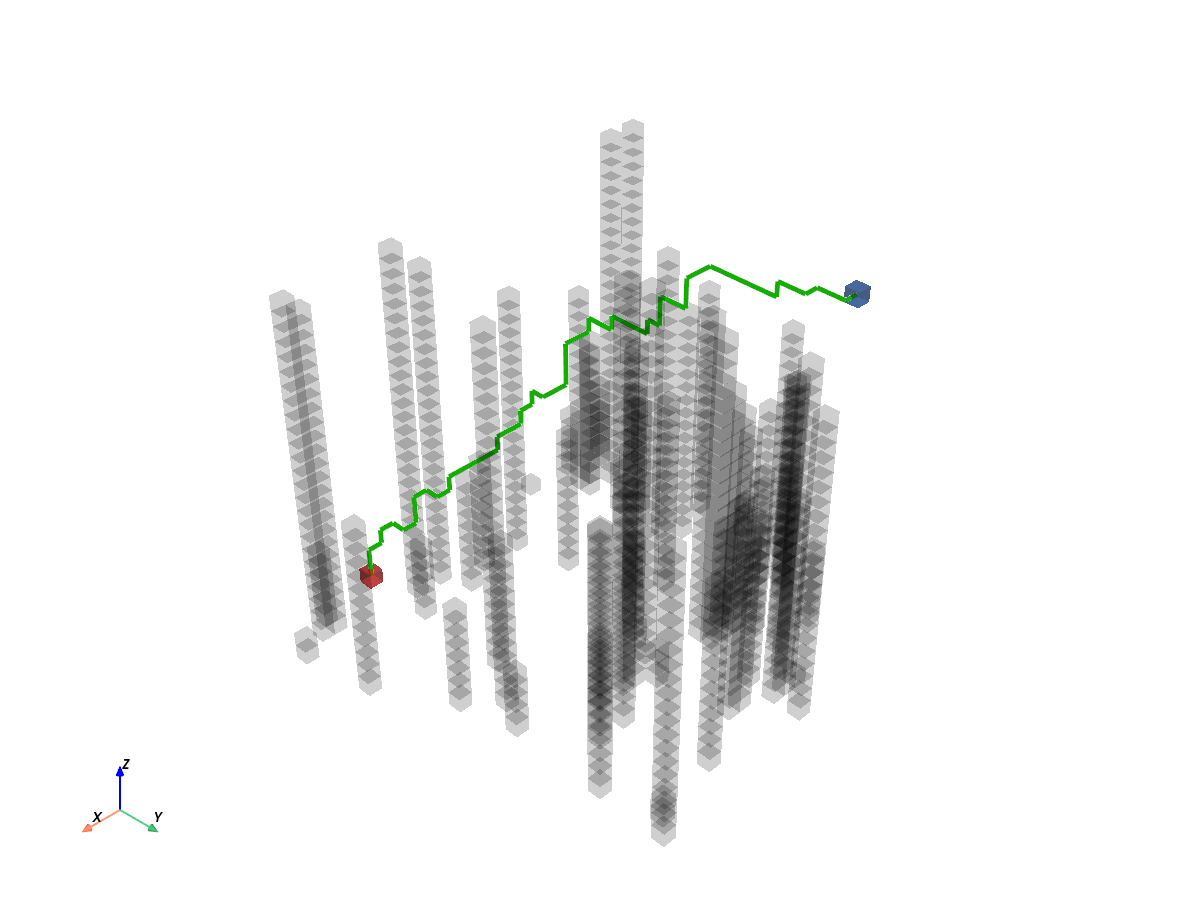
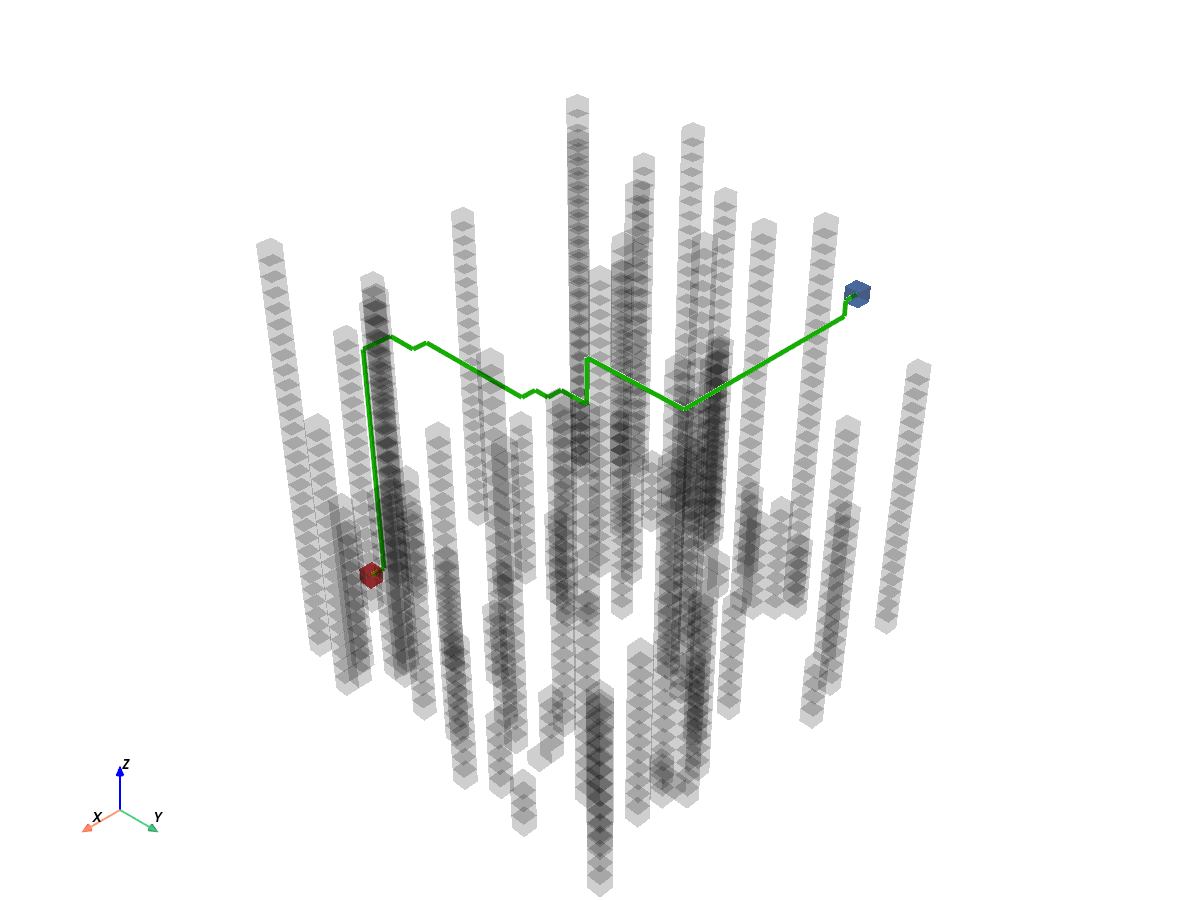
Add A*, theta*, & voronoi roadmap scripts

Changed region(s): [[0.2158, 0.0933, 0.8017, 0.9956]]

diff --git a/scripts/roadmaps/run_voronoi.py b/scripts/roadmaps/run_voronoi.py
@@ -1,0 +1,52 @@
+import random
+random.seed(0)
+
+import numpy as np
+np.random.seed(0)
+
+from path_planning.utils.util import read_grid_from_yaml
+from python_motion_planning.common import *
+from python_motion_planning.path_planner import *
+from python_motion_planning.controller import *
+
+if __name__ == "__main__":
+    os.makedirs('figs/voronoiplanner',exist_ok=True)
+
+    map_ =read_grid_from_yaml('path_planning/maps/2d/2d.yaml')
+    map_.inflate_obstacles(radius=3)
+    start = (5, 5)
+    goal = (45, 25)
+    map_.type_map[start] = TYPES.START
+    map_.type_map[goal] = TYPES.GOAL
+
+    planner = VoronoiPlanner(map_=map_, start=start, goal=goal)
+    path, path_info = planner.plan()
+
+    vis = Visualizer2D()
+    vis.plot_grid_map(map_)
+    vis.plot_path(path)       
+    vis.plot_expand_tree(path_info["expand"])
+    vis.savefig('figs/voronoiplanner/voronoiplanner_2d.png')
+    vis.show()
+    vis.close()
+
+
+    map_ =read_grid_from_yaml('path_planning/maps/3d/3d.yaml')
+    map_.inflate_obstacles(radius=3)
+    start = (25, 5, 5)
+    goal = (5, 25, 25)
+    map_.type_map[start] = TYPES.START
+    map_.type_map[goal] = TYPES.GOAL
+
+    planner = VoronoiPlanner(map_=map_, start=start, goal=goal)
+    path, path_info = planner.plan()
+
+    vis = Visualizer3D()
+    vis.plot_grid_map(map_)
+    vis.plot_path(path)       
+    
+    # For 3D visualization, PyVista requires show() before savefig()
+    # Call show() first to initialize the renderer, then save
+    vis.show()
+    vis.savefig('figs/voronoiplanner/voronoiplanner_3d.png')
+    vis.close()

diff --git a/scripts/roadmaps/run_astar.py b/scripts/roadmaps/run_astar.py
@@ -1,0 +1,52 @@
+import random
+random.seed(0)
+
+import numpy as np
+np.random.seed(0)
+
+from path_planning.utils.util import read_grid_from_yaml
+from python_motion_planning.common import *
+from python_motion_planning.path_planner import *
+from python_motion_planning.controller import *
+
+if __name__ == "__main__":
+    os.makedirs('figs/astar',exist_ok=True)
+
+    map_ =read_grid_from_yaml('path_planning/maps/2d/2d.yaml')
+    map_.inflate_obstacles(radius=3)
+    start = (5, 5)
+    goal = (45, 25)
+    map_.type_map[start] = TYPES.START
+    map_.type_map[goal] = TYPES.GOAL
+
+    planner = AStar(map_=map_, start=start, goal=goal,diagonal=False)
+    path, path_info = planner.plan()
+
+    vis = Visualizer2D()
+    vis.plot_grid_map(map_)
+    vis.plot_path(path)       
+    vis.plot_expand_tree(path_info["expand"])
+    vis.savefig('figs/astar/astar_2d.png')
+    vis.show()
+    vis.close()
+
+
+    map_ =read_grid_from_yaml('path_planning/maps/3d/3d.yaml')
+    map_.inflate_obstacles(radius=3)
+    start = (25, 5, 5)
+    goal = (5, 25, 25)
+    map_.type_map[start] = TYPES.START
+    map_.type_map[goal] = TYPES.GOAL
+
+    planner = AStar(map_=map_, start=start, goal=goal,diagonal=False)
+    path, path_info = planner.plan()
+
+    vis = Visualizer3D()
+    vis.plot_grid_map(map_)
+    vis.plot_path(path)       
+    
+    # For 3D visualization, PyVista requires show() before savefig()
+    # Call show() first to initialize the renderer, then save
+    vis.show()
+    vis.savefig('figs/astar/astar_3d.png')
+    vis.close()

diff --git a/scripts/roadmaps/run_thetastar.py b/scripts/roadmaps/run_thetastar.py
@@ -1,0 +1,50 @@
+import random
+random.seed(0)
+
+import numpy as np
+np.random.seed(0)
+
+from path_planning.utils.util import read_grid_from_yaml
+from python_motion_planning.common import *
+from python_motion_planning.path_planner import *
+from python_motion_planning.controller import *
+
+if __name__ == "__main__":
+    os.makedirs('figs/thetastar',exist_ok=True)
+
+    map_ =read_grid_from_yaml('path_planning/maps/2d/2d.yaml')
+    map_.inflate_obstacles(radius=3)
+    start = (5, 5)
+    goal = (45, 25)
+    map_.type_map[start] = TYPES.START
+    map_.type_map[goal] = TYPES.GOAL
+
+    planner = ThetaStar(map_=map_, start=start, goal=goal,diagonal=False)
+    path, path_info = planner.plan()
+
+    vis = Visualizer2D()
+    vis.plot_grid_map(map_)
+    vis.plot_path(path)       
+    vis.plot_expand_tree(path_info["expand"])
+    vis.savefig('figs/thetastar/thetastar_2d.png')
+    vis.close()
+
+
+    map_ =read_grid_from_yaml('path_planning/maps/3d/3d.yaml')
+    map_.inflate_obstacles(radius=3)
+    start = (25, 5, 5)
+    goal = (5, 25, 25)
+    map_.type_map[start] = TYPES.START
+    map_.type_map[goal] = TYPES.GOAL
+
+    planner = ThetaStar(map_=map_, start=start, goal=goal,diagonal=False)
+    path, path_info = planner.plan()
+
+    vis = Visualizer3D()
+    vis.plot_grid_map(map_)
+    vis.plot_path(path)       
+    
+    # For 3D visualization, PyVista requires show() before savefig()
+    # Call show() first to initialize the renderer, then save
+    vis.show()
+    vis.savefig('figs/thetastar/thetastar_3d.png')
